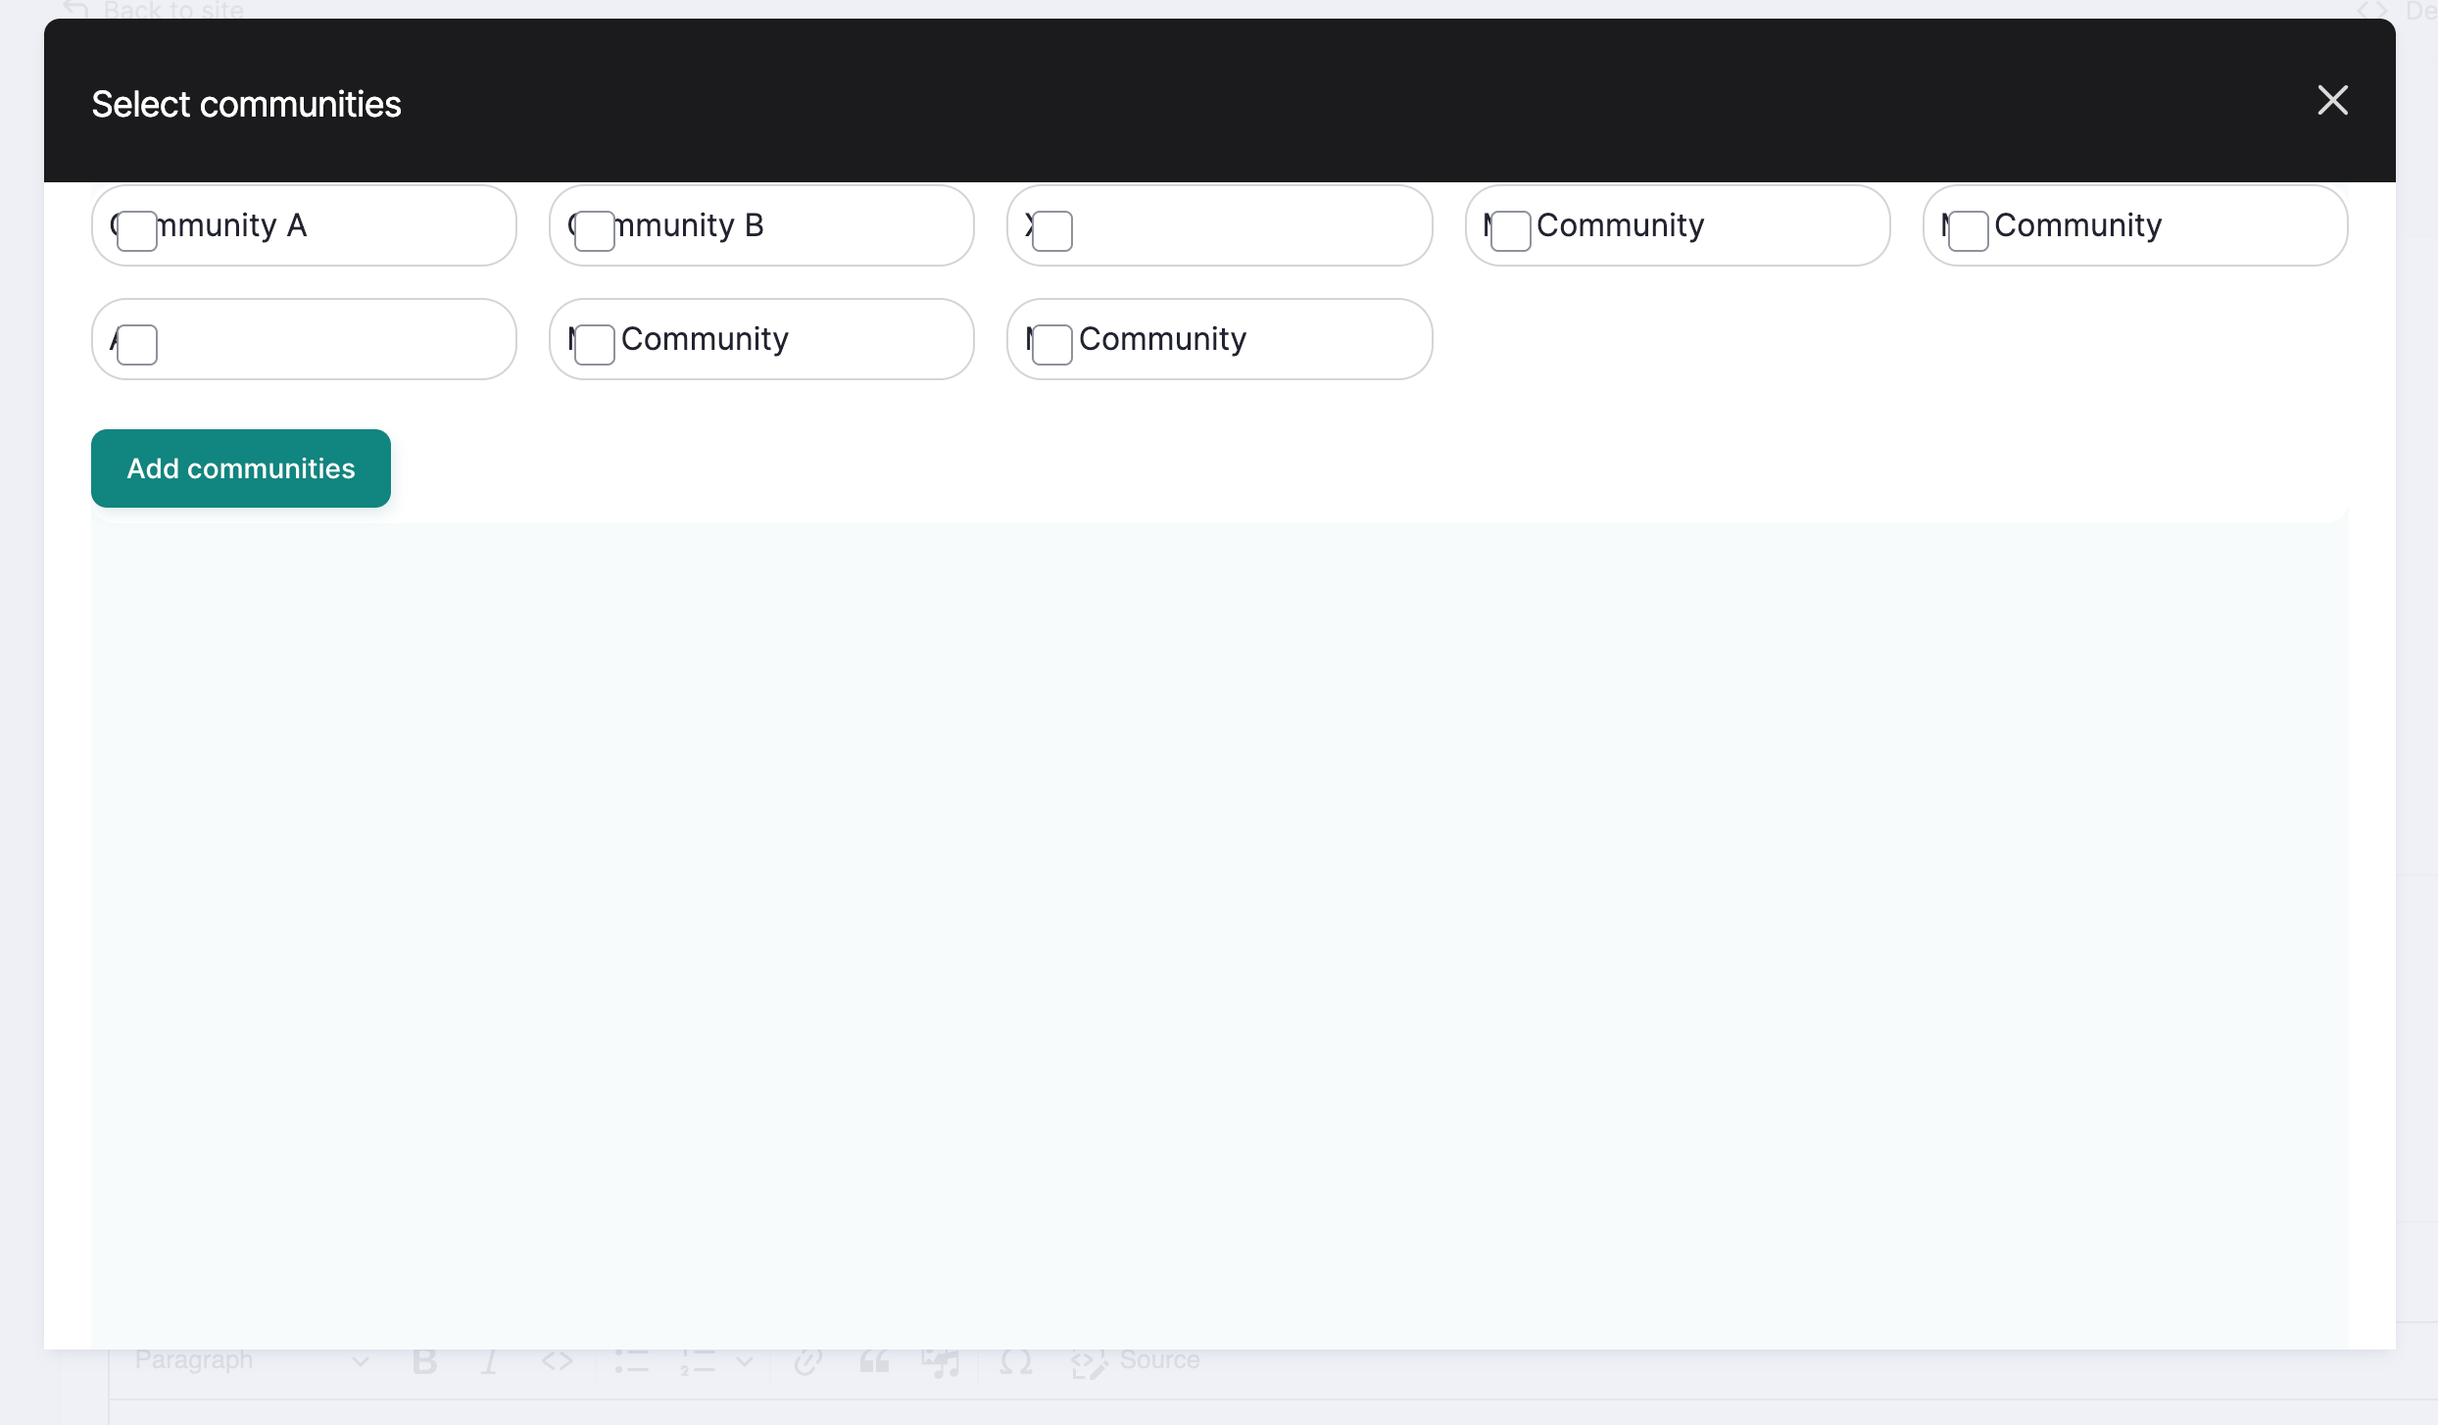
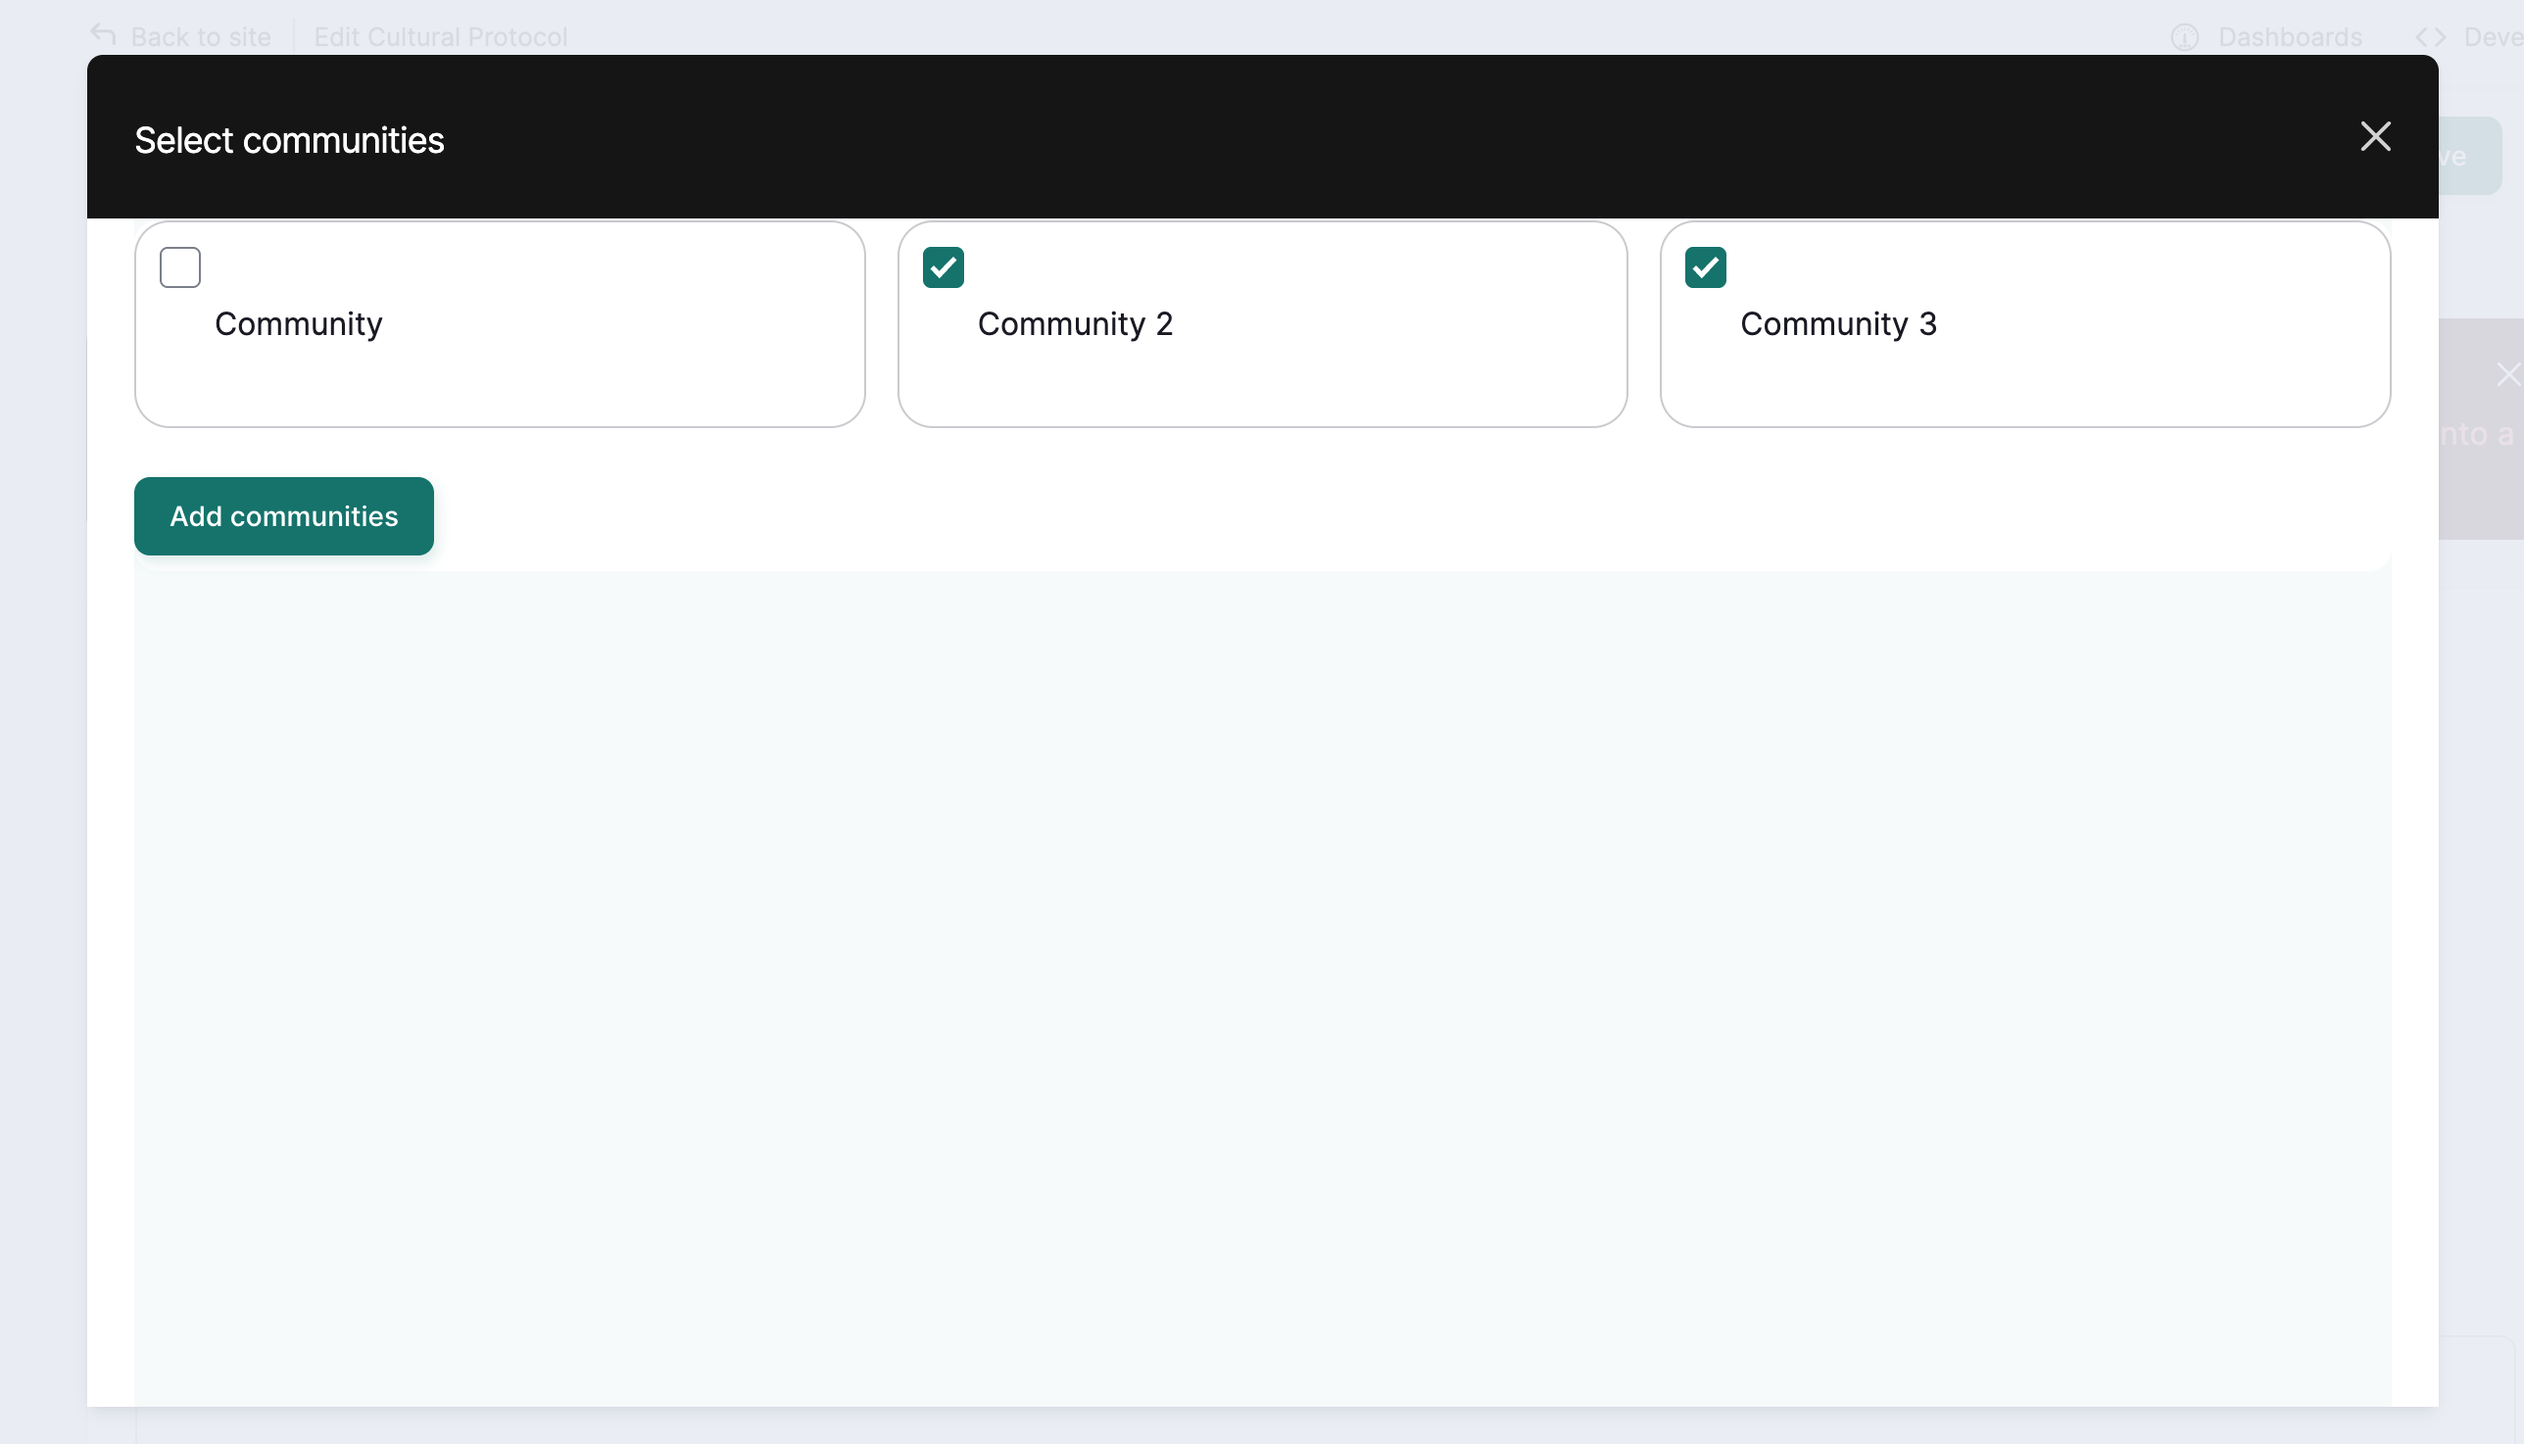
Small updates
Updated screenshots and article links.

diff --git a/docs/3Cs/CreateACulturalProtocol.md b/docs/3Cs/CreateACulturalProtocol.md
@@ -36,7 +36,7 @@ It's possible that related families, villages, clans, or other communities might
 
     ![Communities field with select communities button](../_embeds/create-protocol-04.png) 
 
-     ![The add communities modal, with all availbable communities listed with checkboxes by each community. The add communities button is located at the bottom left.](../_embeds/create-protocol-05.png) ***THIS SCREENSHOT WILL NEED TO BE UPDATED***
+     ![The add communities modal, with all availbable communities listed with checkboxes by each community. The add communities button is located at the bottom left.](../_embeds/create-protocol-05.png) 
 
     !!! Tip
         You must be a community manager in every community you wish to add.
@@ -60,7 +60,6 @@ It's possible that related families, villages, clans, or other communities might
        You will be taken to the new protocol page. If you've added a  description, it will display on this page along with a confirmation message.
 
        ![Newly created protocol page](../_embeds/create-protocol-09.png)
-       ***THIS SCREENSHOT WILL NEED TO BE UPDATED***
 
 
 ## Create a cultural protocol through an existing community

diff --git a/docs/3Cs/EditCulturalProtocolSettings.md b/docs/3Cs/EditCulturalProtocolSettings.md
@@ -34,8 +34,7 @@ Each protocol is managed by at least one parent community. Protocols can also be
 
 2. Check the box next to each community you would like to add. Select "Add Communities"
 
-**SCREENSHOT OF COMMUNITY SELECTION MODAL**
-![Screenshot of community selection modal](../_embeds/placeholderscreenshot.png)
+![Screenshot of community selection modal. Three communities are listed, two are selected. The add communities button is located in the bottom-left corner.](../_embeds/create-protocol-05.png)
 
 3. To remove a community, select the trash can icon in the top right corner of each community.
 
@@ -80,7 +79,6 @@ Featured content gives users a preview of selected content. It displays the titl
 
 5. Remove featured content by selecting the grey trash can icon on the top right corner of each piece of content.
     ![Featured content field with a sample content item and trash can icon highlighted in red](../_embeds/edit-protocol-04.png)
-
 
 ## Save
 

diff --git a/docs/3Cs/ManageCommunityMembershipAndRoles.md b/docs/3Cs/ManageCommunityMembershipAndRoles.md
@@ -10,7 +10,7 @@ tags:
 !!! roles "User role"
     Community manager
 
-Community managers are responsible for adding and managing community members. This article provides instruction for managing existing members both individually and in bulk. For details on adding new members as a community manager, see [Create User Accounts](/docs/users/creating-account.md)
+Community managers are responsible for adding and managing community members. This article provides instruction for managing existing members both individually and in bulk. For details on adding new members as a community manager, see [Create User Accounts](../users/create-user-accounts-community-manager.md)
 
 ## Manage members page
 

diff --git a/docs/users/creating-account-site-wide.md b/docs/users/creating-account-site-wide.md
@@ -10,7 +10,7 @@ tags:
 !!! Roles "User roles" 
     Administrator, Mukurtu manager
 
-This article covers creating a user account from a site-wide role such as an administrator or Mukurtu manager. For information on creating a user account as a community manager, see [Create User Account as a Community Manager](create-user-account-community-manager.md)
+This article covers creating a user account from a site-wide role such as an administrator or Mukurtu manager. For information on creating a user account as a community manager, see [Create User Accounts as a Community Manager](../users/create-user-accounts-community-manager.md)
 
 ## Create a new user account
 

diff --git a/docs/users/create-user-accounts-community-manager.md b/docs/users/create-user-accounts-community-manager.md
@@ -1,0 +1,10 @@
+---
+tags:
+- users
+- account management
+- getting started
+- communities, cultural protocols, and categories
+---
+# Create User Accounts as a Community Manager
+
+Coming soon

diff --git a/docs/3Cs/MultiCommunityProtocols.md b/docs/3Cs/MultiCommunityProtocols.md
@@ -1,0 +1,3 @@
+# Multi Community Protocols
+
+Coming soon
